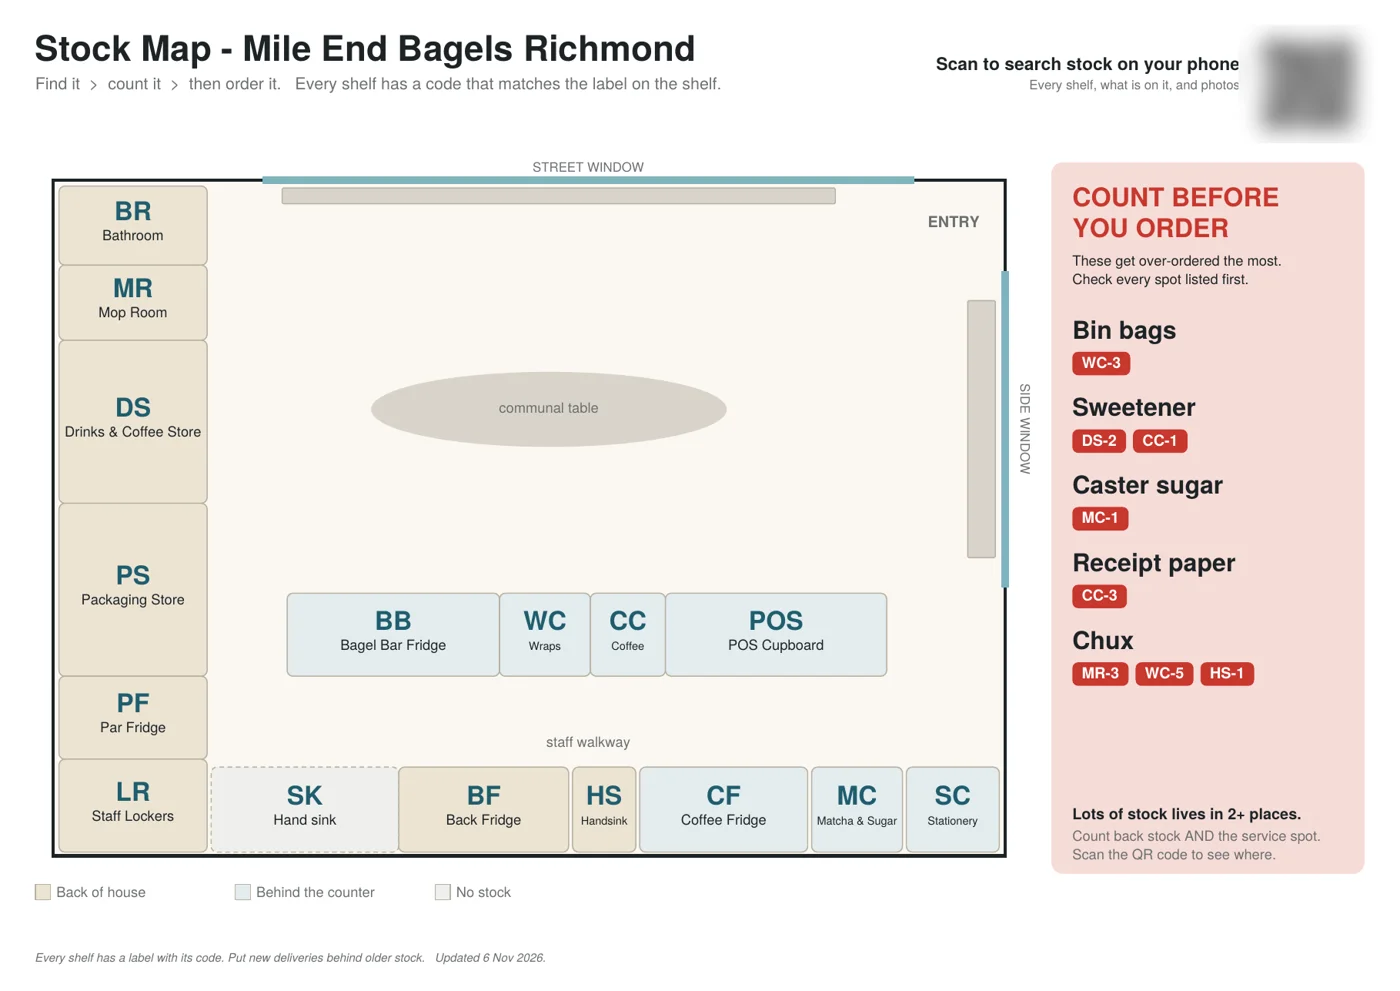
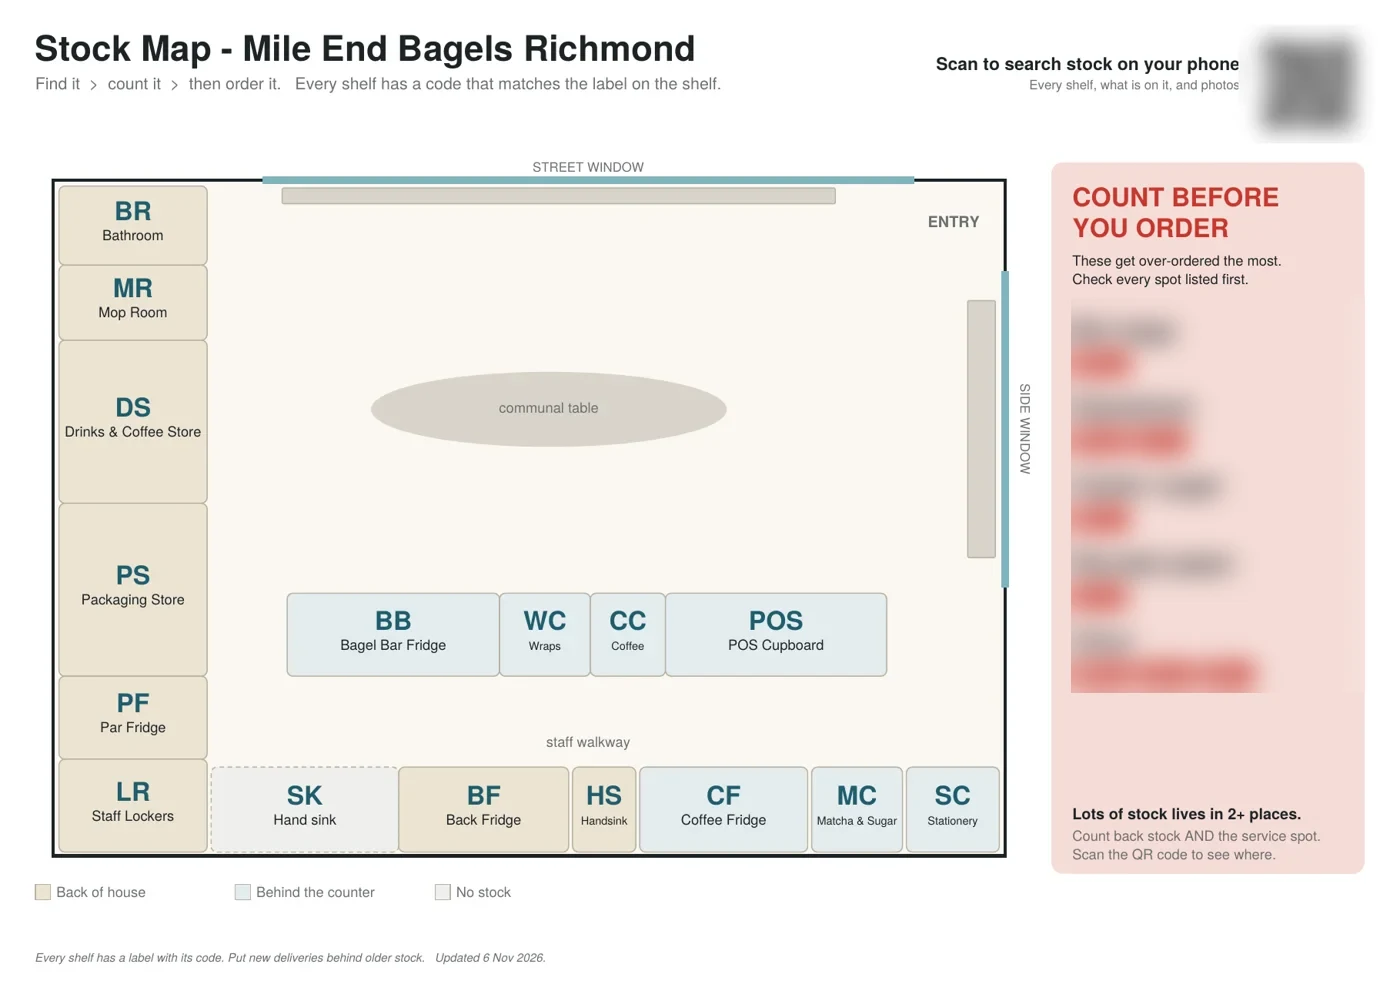
Blur spec change note and over-ordered item list
Claude-Session: https://claude.ai/code/session_01Vb6tQfqDKonefQoa8XUStW

Changed region(s): [[0.7679, 0.3027, 0.9214, 0.6963]]

diff --git a/index.html b/index.html
@@ -211,7 +211,7 @@
       <details id="t-stockmap">
         <summary><span class="play" aria-hidden="true"><i></i></span><span class="no">A5</span><h3>Mile End stock map</h3><span class="genre">Operations</span><span class="tog" aria-hidden="true">+</span><span class="one">A store-wide map of every shelf, so the team counts before they order</span></summary>
         <div class="body">
-          <img class="cover" src="img/stockmap-print.webp" alt="Printed A3 stock map of Mile End Bagels Richmond, with coded storage zones and a Count before you order panel" loading="lazy" width="1400" height="990">
+          <img class="cover" src="img/stockmap-print.webp" alt="Printed A3 stock map of Mile End Bagels Richmond, with coded storage zones" loading="lazy" width="1400" height="990">
           <p class="cap">The printed A3 map that hangs in store. The QR code links to the searchable version and is blurred here.</p>
           <ul class="tags"><li>Operations</li><li>Cost control</li><li>Process design</li><li>Training</li></ul>
           <p>Stock at Mile End Richmond lived in more than one place: a back-of-house store, a fridge and a service cupboard behind the counter. Nobody could see it all at once, so the same items kept being ordered while there was plenty already in the building, and new starters spent shifts hunting for things.</p>
